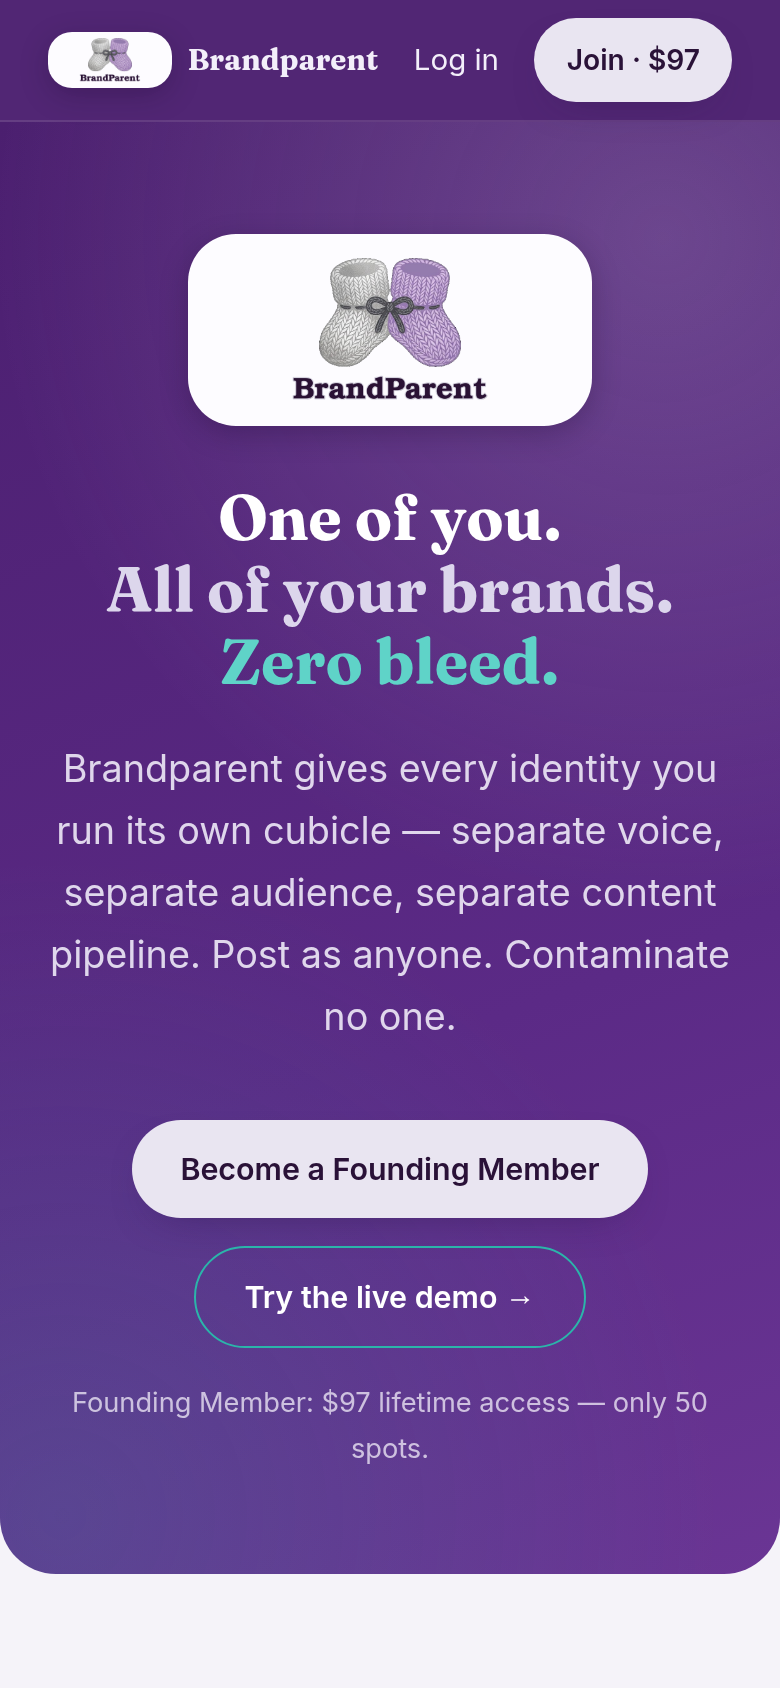
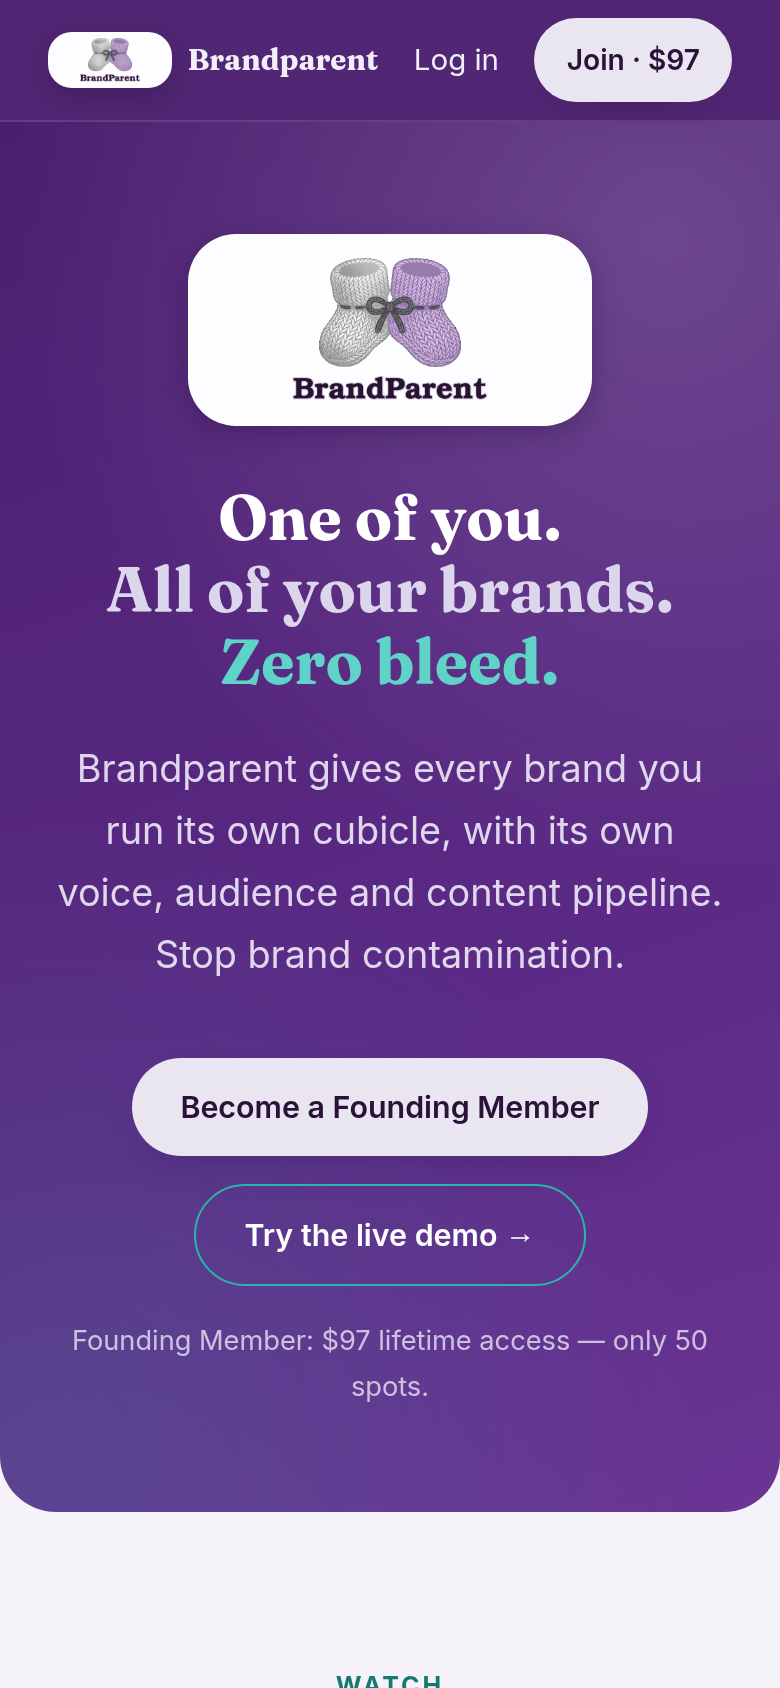
Copy: brand (not identity) wording; 'brand contamination'; new hero paragraph; no impersonation phrasing

diff --git a/index.html b/index.html
@@ -6,7 +6,7 @@
 <meta name="theme-color" content="#4B1F6F">
 <title>Brandparent — One of you. All of your brands. Zero bleed.</title>
[1 lines of base64/hex data omitted]
-<meta name="description" content="Brandparent keeps every brand you run in its own cubicle — separate voice, audience, and content pipeline — so nothing cross-contaminates.">
+<meta name="description" content="Brandparent gives every brand you run its own cubicle, with its own voice, audience and content pipeline. Stop brand contamination.">
 <link rel="preconnect" href="https://fonts.googleapis.com">
 <link rel="preconnect" href="https://fonts.gstatic.com" crossorigin>
 <link href="https://fonts.googleapis.com/css2?family=Fraunces:opsz,wght@9..144,500;9..144,600;9..144,700&family=Inter:wght@400;500;600;700&display=swap" rel="stylesheet">
@@ -251,7 +251,7 @@
       <img src="brandparent-logo.png" alt="Brandparent" width="96" style="height:96px;width:auto;display:inline-block;vertical-align:middle;">
     </div>
     <h1>One of you.<br><span class="teal">All of your brands.</span> <span class="coral">Zero bleed.</span></h1>
-    <p class="sub">Brandparent gives every identity you run its own cubicle — separate voice, separate audience, separate content pipeline. Post as anyone. Contaminate no one.</p>
+    <p class="sub">Brandparent gives every brand you run its own cubicle, with its own voice, audience and content pipeline. Stop brand contamination.</p>
     <div class="hero-ctas">
       <a class="btn btn-coral" href="signup.html?tier=founding_member">Become a Founding Member</a>
       <a class='btn btn-ghost' href='demo.html'>Try the live demo →</a>
@@ -276,18 +276,18 @@
 <section class="problem" id="problem">
   <div class="wrap">
     <span class="kicker coral">The Problem</span>
-    <h2>Multi-brand creators don't have a tool problem.<br>They have a contamination problem.</h2>
+    <h2>Multi-brand creators don't have a tool problem.<br>They have a brand contamination problem.</h2>
     <p class="lede">Run more than one brand and every scheduler, inbox, and drafts folder becomes a place where the wrong voice leaks to the wrong audience.</p>
     <div class="problem-grid">
       <div class="p-card">
         <span class="emoji">🧺</span>
         <h3>Voices bleed in the wash</h3>
-        <p>Your mystical brand's language shows up in your professional brand's post. One slip and an audience you spent years building starts to doubt what you are.</p>
+        <p>Your mystical brand's language shows up in your professional brand's post. One slip and an audience you spent years building starts to doubt what the brand stands for.</p>
       </div>
       <div class="p-card">
         <span class="emoji">🎭</span>
         <h3>Wrong account, wrong post</h3>
-        <p>Every multi-brand creator has posted to the wrong account at least once. Most tools make it easy — they pile all your identities into one dropdown.</p>
+        <p>Every multi-brand creator has posted to the wrong account at least once. Most tools make it easy — they pile all your brands into one dropdown.</p>
       </div>
       <div class="p-card">
         <span class="emoji">🧠</span>
@@ -302,7 +302,7 @@
   <div class="wrap">
     <span class="kicker">The Cubicle System</span>
     <h2>Every brand gets a room of its own.</h2>
-    <p class="lede">Like a well-run studio floor: shared building, private cubicles. You walk in as the parent — you sit down as the brand.</p>
+    <p class="lede">Like a well-run studio floor: shared building, private cubicles. You walk in as the parent, and every brand has its own desk.</p>
     <div class="cubicle-row">
       <div class="cubicle">
         <div class="dot" style="background:#1b5e20">DJ</div>
@@ -345,7 +345,7 @@
       <div class="step">
         <div class="num">1</div>
         <h3>Set up each cubicle</h3>
-        <p>Define the voice, the audience, the vocabulary, and the visual identity for each brand — once. Brandparent remembers who's talking.</p>
+        <p>Define the voice, the audience, the vocabulary, and the look for each brand — once. Brandparent remembers which brand you're working in.</p>
       </div>
       <div class="step">
         <div class="num">2</div>
@@ -355,7 +355,7 @@
       <div class="step">
         <div class="num">3</div>
         <h3>The Bleed Check catches leaks</h3>
-        <p>Before anything ships, Brandparent scans your draft against every other cubicle's vocabulary and flags cross-contamination — the wrong name, the wrong tone, the wrong world.</p>
+        <p>Before anything ships, Brandparent scans your draft against every other cubicle's vocabulary and flags brand contamination — the wrong name, the wrong tone, the wrong world.</p>
       </div>
     </div>
   </div>
@@ -364,15 +364,15 @@
 <section class="features" id="features">
   <div class="wrap">
     <span class="kicker">Features</span>
-    <h2>Built for people who are more than one thing.</h2>
+    <h2>Built for people who run more than one brand.</h2>
     <div class="feat-grid">
       <div class="feat">
         <div class="ic ic-teal">🚪</div>
-        <div><h3>Brand Cubicles</h3><p>Isolated workspaces per identity — voice profile, audience notes, lexicon, palette, and content history that never mix.</p></div>
+        <div><h3>Brand Cubicles</h3><p>Isolated workspaces per brand — voice profile, audience notes, lexicon, palette, and content history that never mix.</p></div>
       </div>
       <div class="feat">
         <div class="ic ic-coral">🧪</div>
-        <div><h3>Bleed Check™</h3><p>Real-time contamination scanning. Drafts are checked against every other brand's vocabulary before you publish.</p></div>
+        <div><h3>Bleed Check™</h3><p>It prevents brand contamination. Drafts are checked against every other brand's vocabulary before you publish.</p></div>
       </div>
       <div class="feat">
         <div class="ic ic-coral">✨</div>

diff --git a/app.html b/app.html
@@ -453,7 +453,7 @@
   <button type="button" class="acct-toggle" onclick="document.body.classList.toggle('acct-open')" aria-label="Account menu" title="Account">☰</button>
   <div class="side-foot">
     <b id="parent-name-el">—</b>
-    parent identity
+    parent brand
     <span class="studio-badge">Studio</span>
     <br>
     <button class="tour-link" onclick="startTour()" style="margin-top:10px">🎓 Take the tour</button>
@@ -512,12 +512,12 @@
               <div id="discord-limit-warn" style="display:none;margin-top:8px;font-size:.8rem;font-weight:600;color:var(--muted)"></div>
 
               <div class="step-label"><span class="step-n">2</span> Write it <span class="step-hint">Bleed Check watches as you type</span></div>
-              <textarea id="draft" placeholder="Write as this brand… the Bleed Check watches as you type." oninput="runBleedCheck(); checkBlueskyLimit()"></textarea>
+              <textarea id="draft" placeholder="Write for this brand… the Bleed Check watches as you type." oninput="runBleedCheck(); checkBlueskyLimit()"></textarea>
 
               <!-- Bleed Check sits directly under the editor so results never land off-screen -->
               <div class="bleed-box" id="bleed-box">
                 <div class="bleed-row">
-                  <div class="bleed-status bleed-clean" id="bleed-status">✓ Clean — no contamination</div>
+                  <div class="bleed-status bleed-clean" id="bleed-status">✓ Clean — no brand contamination</div>
                   <div class="bleed-actions">
                     <button class="btn btn-ghost btn-sm" onclick="runBleedCheck(true)">Run Bleed Check</button>
                     <button class="btn btn-coral btn-sm" onclick="optimize()">✨ Optimize</button>
@@ -1075,7 +1075,7 @@ async function init() {
   if (!session) return;
 
   const { data: profile } = await sb.from('profiles').select('parent_name, subscription_status, tutorials_enabled').eq('id', session.user.id).single();
-  document.getElementById('parent-name-el').textContent = (profile && profile.parent_name) || 'My Identity';
+  document.getElementById('parent-name-el').textContent = (profile && profile.parent_name) || 'My brands';
   tutorialsEnabled = !profile || profile.tutorials_enabled !== false;
   document.getElementById('tutorial-toggle-input').checked = tutorialsEnabled;
 
@@ -2294,14 +2294,14 @@ function runBleedCheck(manual) {
   const list = document.getElementById('bleed-list');
   if (!raw.trim()) {
     status.className = 'bleed-status bleed-clean';
-    status.textContent = '✓ Clean — no contamination';
+    status.textContent = '✓ Clean — no brand contamination';
     list.innerHTML = '<p class="bleed-empty">Flagged terms from other cubicles will appear here.</p>';
     document.getElementById('preview').textContent = 'Nothing yet.';
     return;
   }
   if (leaks.length) {
     status.className = 'bleed-status bleed-dirty';
-    status.textContent = '⚠ Contamination detected — ' + leaks.length + ' leak' + (leaks.length > 1 ? 's' : '');
+    status.textContent = '⚠ Brand contamination detected — ' + leaks.length + ' leak' + (leaks.length > 1 ? 's' : '');
     list.innerHTML = leaks.map(l => l.brand
       ? `<div class="bleed-item"><b>${escapeHtml(l.term)}</b> belongs to <span class="from" style="background:${l.brand.color}">${escapeHtml(l.brand.name)}</span></div>`
       : `<div class="bleed-item"><b>${escapeHtml(l.term)}</b> is on <b>${escapeHtml(active.name)}</b>'s never-say list <span class="from" style="background:#c0392b">blocked term</span></div>`
@@ -2956,7 +2956,7 @@ function fullTourSteps() {
   return [
     { selector: '.side-label', title: 'Your cubicles', text: "Every brand gets its own cubicle — its own voice, colors, and content — so nothing bleeds between brands you run." },
     { before: () => showPanel('compose', document.querySelector('.tab[data-panel="compose"]')), selector: '.tab[data-panel="compose"]', title: 'Post', text: "Write a post here for whichever cubicle is active — top to bottom: pick platforms, write, check, add media, then schedule or publish from the bar at the bottom." },
-    { selector: '#bleed-status', title: 'Bleed Check™', text: "Flags wording that actually belongs to a different one of your brands before it goes out under the wrong name." },
+    { selector: '#bleed-status', title: 'Bleed Check™', text: "Stops brand contamination: flags wording that belongs to a different one of your brands before it goes out under the wrong name." },
     { before: () => showPanel('voice', document.querySelector('.tab[data-panel="voice"]')), selector: '.tab[data-panel="voice"]', title: 'Brand & voice', text: "Logo, the four brand colors, fonts, and the guided interview all live here — this is where you'd come back to rebrand a cubicle later." },
     { selector: '#interview-card', title: 'Getting to know you', text: "A short guided interview that fills out this cubicle's tone, audience, and vocabulary for you — nothing saves until you review and apply it." },
     { before: () => showPanel('compose', document.querySelector('.tab[data-panel="compose"]')), selector: '#queue-card', title: 'Up next', text: "Everything scheduled for this cubicle sits right beside the composer, so you can see a post land the moment you schedule it." },

diff --git a/preview-after.html b/preview-after.html
@@ -453,7 +453,7 @@
   <button type="button" class="acct-toggle" onclick="document.body.classList.toggle('acct-open')" aria-label="Account menu" title="Account">☰</button>
   <div class="side-foot">
     <b id="parent-name-el">—</b>
-    parent identity
+    parent brand
     <span class="studio-badge">Studio</span>
     <br>
     <button class="tour-link" onclick="startTour()" style="margin-top:10px">🎓 Take the tour</button>
@@ -512,12 +512,12 @@
               <div id="discord-limit-warn" style="display:none;margin-top:8px;font-size:.8rem;font-weight:600;color:var(--muted)"></div>
 
               <div class="step-label"><span class="step-n">2</span> Write it <span class="step-hint">Bleed Check watches as you type</span></div>
-              <textarea id="draft" placeholder="Write as this brand… the Bleed Check watches as you type." oninput="runBleedCheck(); checkBlueskyLimit()"></textarea>
+              <textarea id="draft" placeholder="Write for this brand… the Bleed Check watches as you type." oninput="runBleedCheck(); checkBlueskyLimit()"></textarea>
 
               <!-- Bleed Check sits directly under the editor so results never land off-screen -->
               <div class="bleed-box" id="bleed-box">
                 <div class="bleed-row">
-                  <div class="bleed-status bleed-clean" id="bleed-status">✓ Clean — no contamination</div>
+                  <div class="bleed-status bleed-clean" id="bleed-status">✓ Clean — no brand contamination</div>
                   <div class="bleed-actions">
                     <button class="btn btn-ghost btn-sm" onclick="runBleedCheck(true)">Run Bleed Check</button>
                     <button class="btn btn-coral btn-sm" onclick="optimize()">✨ Optimize</button>
@@ -1074,7 +1074,7 @@ async function init() {
   if (!session) return;
 
   const { data: profile } = await sb.from('profiles').select('parent_name, subscription_status, tutorials_enabled').eq('id', session.user.id).single();
-  document.getElementById('parent-name-el').textContent = (profile && profile.parent_name) || 'My Identity';
+  document.getElementById('parent-name-el').textContent = (profile && profile.parent_name) || 'My brands';
   tutorialsEnabled = !profile || profile.tutorials_enabled !== false;
   document.getElementById('tutorial-toggle-input').checked = tutorialsEnabled;
 
@@ -2293,14 +2293,14 @@ function runBleedCheck(manual) {
   const list = document.getElementById('bleed-list');
   if (!raw.trim()) {
     status.className = 'bleed-status bleed-clean';
-    status.textContent = '✓ Clean — no contamination';
+    status.textContent = '✓ Clean — no brand contamination';
     list.innerHTML = '<p class="bleed-empty">Flagged terms from other cubicles will appear here.</p>';
     document.getElementById('preview').textContent = 'Nothing yet.';
     return;
   }
   if (leaks.length) {
     status.className = 'bleed-status bleed-dirty';
-    status.textContent = '⚠ Contamination detected — ' + leaks.length + ' leak' + (leaks.length > 1 ? 's' : '');
+    status.textContent = '⚠ Brand contamination detected — ' + leaks.length + ' leak' + (leaks.length > 1 ? 's' : '');
     list.innerHTML = leaks.map(l => l.brand
       ? `<div class="bleed-item"><b>${escapeHtml(l.term)}</b> belongs to <span class="from" style="background:${l.brand.color}">${escapeHtml(l.brand.name)}</span></div>`
       : `<div class="bleed-item"><b>${escapeHtml(l.term)}</b> is on <b>${escapeHtml(active.name)}</b>'s never-say list <span class="from" style="background:#c0392b">blocked term</span></div>`
@@ -2955,7 +2955,7 @@ function fullTourSteps() {
   return [
     { selector: '.side-label', title: 'Your cubicles', text: "Every brand gets its own cubicle — its own voice, colors, and content — so nothing bleeds between brands you run." },
     { before: () => showPanel('compose', document.querySelector('.tab[data-panel="compose"]')), selector: '.tab[data-panel="compose"]', title: 'Post', text: "Write a post here for whichever cubicle is active — top to bottom: pick platforms, write, check, add media, then schedule or publish from the bar at the bottom." },
-    { selector: '#bleed-status', title: 'Bleed Check™', text: "Flags wording that actually belongs to a different one of your brands before it goes out under the wrong name." },
+    { selector: '#bleed-status', title: 'Bleed Check™', text: "Stops brand contamination: flags wording that belongs to a different one of your brands before it goes out under the wrong name." },
     { before: () => showPanel('voice', document.querySelector('.tab[data-panel="voice"]')), selector: '.tab[data-panel="voice"]', title: 'Brand & voice', text: "Logo, the four brand colors, fonts, and the guided interview all live here — this is where you'd come back to rebrand a cubicle later." },
     { selector: '#interview-card', title: 'Getting to know you', text: "A short guided interview that fills out this cubicle's tone, audience, and vocabulary for you — nothing saves until you review and apply it." },
     { before: () => showPanel('compose', document.querySelector('.tab[data-panel="compose"]')), selector: '#queue-card', title: 'Up next', text: "Everything scheduled for this cubicle sits right beside the composer, so you can see a post land the moment you schedule it." },

diff --git a/demo.html b/demo.html
@@ -103,7 +103,7 @@
   <div id="cubicle-list"></div>
   <div class="side-foot">
     <b>Leather</b>
-    The Green Satyr LLC · parent identity
+    The Green Satyr LLC · parent brand
     <span class="studio-badge">Studio</span>
   </div>
 </aside>
@@ -125,7 +125,7 @@
         <div>
           <div class="card">
             <h3>Draft a post</h3>
-            <textarea id="draft" placeholder="Write as this brand… the Bleed Check watches as you type." oninput="runBleedCheck()"></textarea>
+            <textarea id="draft" placeholder="Write for this brand… the Bleed Check watches as you type." oninput="runBleedCheck()"></textarea>
             <div class="comp-actions">
               <button class="btn btn-brand" onclick="runBleedCheck(true)">Run Bleed Check</button>
               <button class="btn btn-coral" onclick="optimize()">✨ Optimize caption</button>
@@ -141,7 +141,7 @@
         <div>
           <div class="card">
             <h3>Bleed Check™</h3>
-            <div class="bleed-status bleed-clean" id="bleed-status">✓ Clean — no contamination</div>
+            <div class="bleed-status bleed-clean" id="bleed-status">✓ Clean — no brand contamination</div>
             <div id="bleed-list"><p class="bleed-empty">Flagged terms from other cubicles will appear here.</p></div>
           </div>
         </div>
@@ -341,14 +341,14 @@ function runBleedCheck(){
   const list = document.getElementById('bleed-list');
   if(!raw.trim()){
     status.className='bleed-status bleed-clean';
-    status.textContent='✓ Clean — no contamination';
+    status.textContent='✓ Clean — no brand contamination';
     list.innerHTML='<p class="bleed-empty">Flagged terms from other cubicles will appear here.</p>';
     document.getElementById('preview').textContent='Nothing yet.';
     return;
   }
   if(leaks.length){
     status.className='bleed-status bleed-dirty';
-    status.textContent='⚠ Contamination detected — '+leaks.length+' leak'+(leaks.length>1?'s':'');
+    status.textContent='⚠ Brand contamination detected — '+leaks.length+' leak'+(leaks.length>1?'s':'');
     list.innerHTML = leaks.map(l=> l.brand
       ? `<div class="bleed-item"><b>${l.term}</b> belongs to <span class="from" style="background:${l.brand.color}">${l.brand.name}</span></div>`
       : `<div class="bleed-item"><b>${l.term}</b> is on <b>${active.name}</b>'s never-say list <span class="from" style="background:#c0392b">blocked term</span></div>`

diff --git a/terms.html b/terms.html
@@ -37,13 +37,13 @@
   <div class="note">Plain-language summary written by the Brandparent team, not a law firm. If you're relying on this for a business decision beyond using the product, have your own counsel review it.</div>
 
   <h2>1. What Brandparent is</h2>
-  <p>Brandparent.app ("Brandparent," "we," "us") is a tool that helps people who run more than one brand, project, or public identity keep each one's voice, visuals, and social media accounts separate. You create a "cubicle" for each brand, and Brandparent helps you draft, check, schedule, and publish content for it — including, if you choose to connect them, posting directly to social platforms on your behalf.</p>
+  <p>Brandparent.app ("Brandparent," "we," "us") is a tool that helps people who run more than one brand or project keep each one's voice, visuals, and social media accounts separate. You create a "cubicle" for each brand, and Brandparent helps you draft, check, schedule, and publish content for it — including, if you choose to connect them, posting directly to social platforms on your behalf.</p>
 
   <h2>2. Your account</h2>
   <p>You need an account to use Brandparent. You're responsible for keeping your login credentials secure and for everything that happens under your account. You must be at least 18 years old, or the age of majority where you live, to create an account.</p>
 
   <h2>3. Connecting social accounts</h2>
-  <p>Brandparent lets you connect third-party social accounts (currently including Facebook, Instagram, Bluesky, LinkedIn, TikTok, and Discord) to individual cubicles, so posts can go out under the right brand identity. When you do this:</p>
+  <p>Brandparent lets you connect third-party social accounts (currently including Facebook, Instagram, Bluesky, LinkedIn, TikTok, and Discord) to individual cubicles, so posts can go out under the right brand. When you do this:</p>
   <ul>
     <li>You're authorizing Brandparent to post to that account on your behalf, using the permissions you grant during the connection process.</li>
     <li>Each connected account is tied to exactly one cubicle. Brandparent does not share a connected account's credentials or posting access across your other cubicles.</li>

diff --git a/signup.html b/signup.html
@@ -46,7 +46,7 @@
     <p class="trust">Secure checkout via Stripe.</p>
 
     <form id="signup-form">
-      <label>Your name / parent identity</label>
+      <label>Your name / parent brand</label>
       <input type="text" id="parent-name" placeholder="e.g. The Green Satyr LLC" required>
       <label>Email</label>
       <input type="email" id="email" required autocomplete="email">
